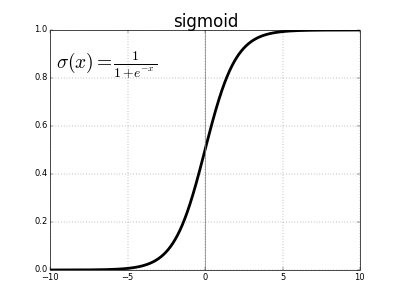
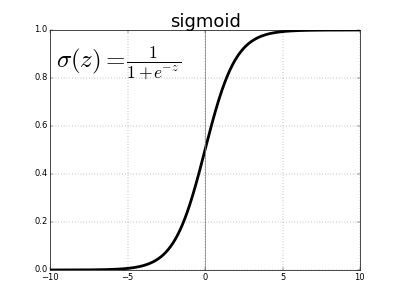
updates to neural networks chapter and images

Changed region(s): [[0.15, 0.15, 0.45, 0.27], [0.42, 0.03, 0.6, 0.12]]

diff --git a/_posts/2016-01-04-neural_networks.md b/_posts/2016-01-04-neural_networks.md
@@ -1,32 +1,77 @@
 ---
-layout: post
+layout: chapter
 title: "Neural networks"
 date: 2016-01-04
 ---
 
-{% include quotation.html index=0 %}
-
-Nearly a century before neural networks were first implemented, Ada Lovelace described an ambition to build a "calculus of the nervous system." Although speculative analogies between brains and machines are as old as the philosophy of computation itself, it wasn't until Charles Babbage proposed the _analytical engine_ that we conceived of "calculators" having humanlike cognitive capacities. Ada would not live to see her dream of building the engine come to fruition, as engineers of the time were unable to produce the complex circuitry her schematics required. Nevertheless, the idea was passed on to the next century when Alan Turing cited it as the inspiration of the Imitation Game, what soon came to be called the "Turing Test." His ruminations into the extreme limits of computation incited the first boom of artificial intelligence, setting the stage for the golden age of neural networks.
+Nearly a century before neural networks were first implemented, [Ada Lovelace](http://findingada.com/) described an ambition to build a "[calculus of the nervous system](http://www.thelancet.com/journals/lancet/article/PIIS0140-6736(15)00686-8/fulltext?rss=yes)." Although speculative analogies between brains and machines are as old as the philosophy of computation itself, it wasn't until [Charles Babbage](https://en.wikipedia.org/wiki/Charles_Babbage) proposed the [Analytical engine](https://en.wikipedia.org/wiki/Analytical_Engine) that we conceived of "calculators" having humanlike cognitive capacities. Ada would not live to see her dream of building the engine come to fruition, as engineers of the time were unable to produce the complex circuitry her schematics required. Nevertheless, the idea was passed on to the next century when [Alan Turing](https://en.wikipedia.org/wiki/Alan_Turing) cited it as the inspiration for the [Imitation Game](http://phil415.pbworks.com/f/TuringComputing.pdf), what soon came to be called the "[Turing Test](https://en.wikipedia.org/wiki/Turing_test)." His ruminations into the extreme limits of computation incited the first boom of artificial intelligence, setting the stage for the golden age of neural networks.
 
 ## The once and future king
 
-The recent resurgence of neural networks is a peculiar story. Intimately connected to the early days of AI, neural networks were first computed in the late 40s in the form of Turing's [B-type machines](https://en.wikipedia.org/wiki/Unorganized_machine), drawing upon earlier research into [neural plasticity](https://en.wikipedia.org/wiki/Hebbian_theory) by neuroscientists and cognitive psychologists studying the learning process in human beings. As the mechanics of brain development were being discovered, computer scientists experimented with idealized versions of action potential and neural backpropagation to simulate the process in machines.
+The recent resurgence of neural networks is a peculiar story. Intimately connected to the early days of AI, neural networks were first formalized in the late 1940s in the form of Turing's [B-type machines](https://en.wikipedia.org/wiki/Unorganized_machine), drawing upon earlier research into [neural plasticity](https://en.wikipedia.org/wiki/Hebbian_theory) by neuroscientists and cognitive psychologists studying the learning process in human beings. As the mechanics of brain development were being discovered, computer scientists experimented with idealized versions of action potential and neural backpropagation to simulate the process in machines. 
 
-**[Figure:: neuron body]**
+Today, most scientists caution against taking this analogy too seriously, as neural networks are strictly designed for solving machine learning problems, rather than accurately depicting the brain. Nevertheless, the metaphor of the core unit of neural networks as a simplified biological neuron has stuck over the decades. The progression from biological neurons to artificial ones can be summarized by the following figures.
 
-Neural networks took a big step forward when Frank Rosenblatt devised the Perceptron in the late 1950s, a type of linear classifier that we saw in the last chapter. Publicly funded by the U.S. Navy, the Mark 1 perceptron was designed to perform image recognition from an array of photocells connected, potentiometers, and electrical motors, and was effective at learning complex electrical circuits, leading the New York Times in 1958 to gush that a machine would soon ["walk, talk, see, write, reproduce itself and be conscious of its existence"](http://query.nytimes.com/gst/abstract.html?res=9D01E4D8173DE53BBC4053DFB1668383649EDE). [[link](http://www.rmki.kfki.hu/~banmi/elte/Bishop%20-%20Pattern%20Recognition%20and%20Machine%20Learning.pdf)]
+<style>
+#outer {
+	text-align: center;
+	margin-left:-300px;
+	margin-right:-300px;
+	display:inline-block;
+	padding:20px;
+}
+.insert {
+	display: inline-block;
+	margin-left:5px;
+	margin-right:5px;
+	border: 1px solid #ddd;
+	padding:5px;
+}
+.caption {	
+	line-height:150%;
+	color:#666;
+	background-color:#f4f4f4;
+	margin-top:8px;
+}
 
-The early hype would inspire scientists and science fiction writers for decades to come, but the excitement was far more tempered in the academic community. Marvin Minsky's and Seymour Papert's 1969 book, [_Perceptrons_](https://en.wikipedia.org/wiki/Perceptrons_(book)), demonstrated various -- [even trivial](http://users.ecs.soton.ac.uk/harnad/Hypermail/Explaining.Mind96/0140.html) -- limitations, inadvertently leading to a [decline of interest](https://en.wikipedia.org/wiki/AI_winter) within both academia and the general public, who had mistakenly assumed computers would simply keep up with the [breakneck pace of computational power](https://en.wikipedia.org/wiki/Moore%27s_law). Even Turing himself said machines would possess human-level intelligence by the year 2000 -- the year we had the Y2K scare. 
+</style>
+<center>
+<div id="outer">
+	<div class="insert"><img src="/images/neuron-anatomy.jpg" />
+		<div class="caption">
+			Anatomy of a biological neuron
+			<br/>Source: <a href="https://askabiologist.asu.edu/neuron-anatomy">ASU school of life sciences</a>
+		</div>
+	</div>
+	<div class="insert">
+		<img src="/images/neuron-simple.jpg" />
+		<div class="caption">
+			Simplified neuron body within a network
+			<br/>Source: <a href="http://www.generation5.org/content/2000/nn00.asp">Gurney, 1997. An Introduction to Neural Networks</a>
+		</div>
+	</div>
+	<div class="insert">
+		<img src="/images/neuron-artificial.png" />
+		<div class="caption">
+			Artificial neuron (<b>fix this</b>)
+			<br/>&nbsp;
+		</div>
+	</div>	
+</div>
+</center>
 
-Despite a number of quiet but significant improvements to neural networks in the 80s and 90s [[1]](_jurgen_)[[2]](_)[[3]](_Perceptrons_), they remained on the sidelines through the 2000s, with most commercial and industrial applications of machine learning favoring support vector machines and various other approaches. [Starting in 2009](http://www.cs.utoronto.ca/~gdahl/papers/dbnPhoneRec.pdf) and [especially ramping up from 2012](https://www.technologyreview.com/s/530561/the-revolutionary-technique-that-quietly-changed-machine-vision-forever/), neural networks have once again become the dominant strain of ML algorithms. Their resurgence was largely brought about by the emergence of convolutional and recurrent neural networks, which have surpassed (sometimes dramatically so) previous state-of-the-art methods for key problems in the audiovisual domain. But more interestingly, they have a number of new applications and properties not seen before, especially of a kind that has piqued the interest of artists and others from outside the AI field proper. This book will look more closely at convolutional neural networks in particular several chapters from now.
 
-## Scope
+Neural networks took a big step forward when [Frank Rosenblatt](https://en.wikipedia.org/wiki/Frank_Rosenblatt) devised the [Perceptron](https://en.wikipedia.org/wiki/Perceptron) in the late 1950s, a type of linear classifier that we saw in the [last chapter](/2016/01/03/machine-learning.html). Publicly funded by the U.S. Navy, the Mark 1 perceptron was designed to perform image recognition from an array of photocells, potentiometers, and electrical motors. It's effectiveness at completing complex electrical circuits lead the New York Times in 1958 to predict that a machine would soon ["walk, talk, see, write, reproduce itself and be conscious of its existence"](http://query.nytimes.com/gst/abstract.html?res=9D01E4D8173DE53BBC4053DFB1668383649EDE).
 
-Neural networks are the only category of supervised learning algorithm this book will cover in detail for now. There are others, including support vector machines, decision trees, bayesian methods, and still more, but we will restrict our attention to neural networks because:
+The early hype would inspire science fiction writers for decades to come, but the excitement was far more tempered in the academic community. Marvin Minsky's and Seymour Papert's 1969 book, [Perceptrons](https://en.wikipedia.org/wiki/Perceptrons_(book)), demonstrated various-—[even trivial](http://users.ecs.soton.ac.uk/harnad/Hypermail/Explaining.Mind96/0140.html)—limitations, inadvertently leading to a [decline of interest](https://en.wikipedia.org/wiki/AI_winter) within both academia and the general public, who had mistakenly assumed computers would simply keep up with the [breakneck pace](https://en.wikipedia.org/wiki/Moore%27s_law) of computational power. Even Turing himself said machines would possess human-level intelligence by the year 2000 -- the year we had the [Y2K scare](https://en.wikipedia.org/wiki/Year_2000_problem). 
 
- - They have a simple and intuitive formulation which can be expressed using elementary math operations.
- - Deep neural networks currently represent the current state-of-the-art in several important machine learning tasks, the ones most relevant to this course.
- - Most of the recent creative uses of machine learning have been made using neural networks.
+Despite a number of quiet but significant improvements to neural networks in the 80s and 90s [[1]](_jurgen_)[[2]](_)[[3]](_Perceptrons_), they remained on the sidelines through the 2000s, with most commercial and industrial applications of machine learning favoring [support vector machines](https://en.wikipedia.org/wiki/Support_vector_machine) and various other approaches. [Starting in 2009](http://www.cs.utoronto.ca/~gdahl/papers/dbnPhoneRec.pdf) and [especially ramping up from 2012](https://www.technologyreview.com/s/530561/the-revolutionary-technique-that-quietly-changed-machine-vision-forever/), neural networks have once again become the dominant strain of ML algorithms. Their resurgence was largely brought about by the emergence of [convolutional](/2016/02/02/convnets.html) and [recurrent neural networks](/2016/02/10/RNNs.html), which have surpassed (sometimes dramatically so) previous state-of-the-art methods for key problems in the audiovisual domain. But more interestingly, they have a number of new applications and properties not seen before, especially of a kind that has piqued the interest of artists and others from outside the AI field proper. This book will look more closely at convolutional neural networks in particular several chapters from now.
+
+Although many learning algorithms have been proposed over the years, we will mostly focus our attention on neural networks because:
+
+ - They have a surprisingly simple and intuitive formulation.
+ - Deep neural networks are tue current state-of-the-art in several important machine learning tasks, the ones most relevant to this book.
+ - Most of the recent creative uses of machine learning have been made with neural networks.
 
 
 ## From linear classifiers to neurons
@@ -35,7 +80,7 @@ Recall from the previous chapter that the input to a 2d linear classifier or reg
 
 $$
 \begin{eqnarray}
-f(x_1, x_2) = b + w_1 * x_1 + w_2 * x_2
+f(x_1, x_2) = b + w_1 x_1 + w_2 x_2
 \end{eqnarray}
 $$
 
@@ -43,7 +88,7 @@ More generally, in any number of dimensions, it can be expressed as
 
 $$
 \begin{eqnarray}
-f(X) = b + \sum_i w_i * x_i
+f(X) = b + \sum_i w_i x_i
 \end{eqnarray}
 $$
 
@@ -64,22 +109,20 @@ We can get from this formula to a full-fledged neural network by introducing two
 
 ## Activation function
 
-In both artificial and biological neural networks, a neuron does not just output the bare input it receives. Instead, there is one more step, called an _activation function_, analagous to the rate of [action potential](_) firing in the brain. The activation function takes the same weighted sum input from before, $$z = b + \sum_i w_i*x_i$$, and then transforms it once more before finally outputting it.
+In both artificial and biological neural networks, a neuron does not just output the bare input it receives. Instead, there is one more step, called an _activation function_, analagous to the rate of [action potential](https://en.wikipedia.org/wiki/Action_potential) firing in the brain. The activation function takes the same weighted sum input from before, $$z = b + \sum_i w_i x_i$$, and then transforms it once more before finally outputting it.
 
-Many activation functions have been proposed, but for now we will describe two in detail: [sigmoid](_) and [ReLU](_). 
+Many activation functions have been proposed, but for now we will describe two in detail: sigmoid and ReLU. 
 
-...tanh
-
-Historically, the sigmoid function is the oldest and most popular activation function. It is defined as:
+Historically, the [sigmoid](https://en.wikipedia.org/wiki/Sigmoid_function) function is the oldest and most popular activation function. It is defined as:
 
 $$
 \sigma(x) = \frac{1}{1 + e^{-x}}
 $$
 
-$$e$$ denotes the [exponential constant](__), roughly equal to 2.718. A neuron which uses a sigmoid as its activation function is called a _sigmoid neuron_. We first set the variable $$z$$ to our original weighted sum input, and then pass that through the sigmoid function.
+$$e$$ denotes the [exponential constant](https://en.wikipedia.org/wiki/E_(mathematical_constant)), roughly equal to 2.71828. A neuron which uses a sigmoid as its activation function is called a _sigmoid neuron_. We first set the variable $$z$$ to our original weighted sum input, and then pass that through the sigmoid function.
 
 $$
-z = b + \sum_i w_i * x_i \\
+z = b + \sum_i w_i x_i \\
 \sigma(z) = \frac{1}{1 + e^{-z}}
 $$
 
@@ -91,28 +134,28 @@ At first, this equation may seem complicated and arbitrary, but it actually has 
 
 We can see that $$\sigma(z)$$ acts as a sort of "squashing" function, condensing our previously unbounded output to the range 0 to 1. In the center, where $$z = 0$$, $$\sigma(0) = 1/(1+e^{0}) = 1/2$$. For large negative values of $$z$$, the $$e^{-z}$$ term in the denominator grows exponentially, and $$\sigma(z)$$ approaches 0. Conversely, large positive values of $$z$$ shrink $$e^{-z}$$ to 0, so $$\sigma(z)$$ approaches 1.
 
-The sigmoid function is continuously differentiable, and its derivative, conveniently, is $$\sigma^\prime(z) = \sigma(z) * (1-\sigma(z))$$. This is important because we have to use calculus to train neural networks, but don't worry about that for now.
+The sigmoid function is continuously differentiable, and its derivative, conveniently, is $$\sigma^\prime(z) = \sigma(z) (1-\sigma(z))$$. This is important because we have to use calculus to train neural networks, but don't worry about that for now.
 
-Sigmoid neurons were the basis of most neural networks for decades, but in recent years, they have fallen out of favor. The reason for this will be explained in more detail later, but in short, they make neural networks that have many layers difficult to train due to the [vanishing gradient problem](https://en.wikipedia.org/wiki/Vanishing_gradient_problem). Instead, most have shifted to using another type of activation function, the _rectified linear unit_, ReLU for short, introduced by Geoff Hinton et al. Despite its obtuse name, it is very simple.
-
-$$
-R(z) = max(0, z)
-$$
-
-In other words, ReLUs let all positive values pass through unchanged, but just sets any negative value to 0. 
+Sigmoid neurons were the basis of most neural networks for decades, but in recent years, they have fallen out of favor. The reason for this will be explained in more detail later, but in short, they make neural networks that have many layers difficult to train due to the [vanishing gradient problem](https://en.wikipedia.org/wiki/Vanishing_gradient_problem). Instead, most have shifted to using another type of activation function, the _rectified linear unit_, or ReLU for short. Despite its obtuse name, it simply given by $$R(z) = max(0, z)$$.
 
 {:.center}
 ![ReLU](/images/relu.png 'ReLU')
 
-Although newer activation functions are gaining traction in recent years, most deep neural networks these days use ReLU. Regardless of which activation function is used, we can represent a neuron in the form of a _compuational graph_ which shows all of the operations in order, giving us a nice intuitive visual representation of a neuron's behavior.
+In other words, ReLUs let all positive values pass through unchanged, but just sets any negative value to 0. Although newer activation functions are gaining traction, most deep neural networks these days use ReLU or one of its [closely related variants](https://en.wikipedia.org/wiki/Rectifier_(neural_networks)). 
 
-**[ FIGURE: computational graph ]**
+Regardless of which activation function is used, we can visualize a single neuron with this standard diagram, giving us a nice intuitive visual representation of a neuron's behavior.
 
-We simplify this diagram as in below, where the presence of the weights, bias, and activation function are encapsulated. This is the standard visualization of a neuron.
+{:.center}
+![ReLU](/images/neuron.png 'Neuron')
 
-**[ FIGURE: standard visualization of neuron, 3 inputs ]**
+The above diagram shows a neuron with three inputs, and outputs a single value $$y$$. As before, we first compute the weighted sum of its inputs, then pass it through an activation function $$\sigma$$.
 
-You may be wondering what the purpose of an activation function is, and why it is preferred to simply outputting the weighted sum, as we do with the linear classifier from the last chapter. The reason is that a weighted sum is _linear_ with respect to its inputs, i.e. it has a flat dependence on each of the inputs. In contrast, non-linear activation functions greatly expand our capacity to model curved or otherwise non-trivial functions. This will become clearer in the next section.
+$$
+z = b + w_1 x_1 + w_2 x_2 + w_3 x_3 \\
+y = \sigma(z)
+$$
+
+You may be wondering what the purpose of an activation function is, and why it is preferred to simply outputting the weighted sum, as we do with the linear classifier from the last chapter. The reason is that a weighted sum is [_linear_](https://en.wikipedia.org/wiki/Linearity) with respect to its inputs, i.e. it has a flat dependence on each of the inputs. In contrast, non-linear activation functions greatly expand our capacity to model curved or otherwise non-trivial functions. This will become clearer in the next section.
 
 # Layers
 
@@ -131,9 +174,10 @@ Note that it may look like the three input neurons send out multiple values beca
 
 The process of a neural network sending an initial input forward through its layers to the output is called _forward propagation_ or a _forward pass_ and any neural network which works this way is called a _feedforward neural network_. As we shall soon see, there are some neural networks which allow data to flow in circles, but let's not get ahead of ourselves yet... 
 
-Let's demonstrate a forward pass with this interactive demo. Click the 'Next' button in the top-left corner to proceed. // You can see a forward pass in action in the following demo. Click 'manual' to pause the demo and go through the steps manually.
+Let's demonstrate a forward pass with this interactive demo. Click the 'Next' button in the top-left corner to proceed. You can see a forward pass in action in the following demo. 
 
-**[ DEMO: demo_forwardpass.html ]**
+{:.center}
+![neural network](/images/temp_demo_forward_pass.png 'forward_pass')
 
 
 # More layers, more expressiveness
@@ -147,8 +191,9 @@ Recall also that activation functions expand our capacity to capture non-linear 
 
 In the demo above, we map a set of inputs to a single output in a forward pass. We can interpret the forward pass as making a prediction about the output, given the input. This is called _regression_ and is one of the primary uses of neural networks. Let's try an example.
 
---
+-----
 
+[[ THIS IS A DRAFT]]
 Random set of dat, 3 cols. 1 regression value
 
 Interactive 3 -> 1
@@ -166,28 +211,29 @@ Now a magic trick, I'll give it a new set of weights. Now let's run the examples
 
 the process of obtaining the correct weights is called training. for now, ignore it, it's a black box. we'll talk about it in the next section.
 
---
+-----
 
 
 What about classification? In the previous chapter, we introduced binary classification by simply thresholding the output at 0; If our output was positive, we'd classify positively, and if it was negative, we'd classify negatively. For neural networks, it would be reasonable to adapt this approach for the final neuron, and classify positively if the output neuron scores above some threshold. For example, we can threshold at 0.5 for sigmoid neurons which are always positive.
 
-But what if we have multiple classes? One option might be to create intervals in the output neuron which correspond to each class, but this would be problematic for reasons that we will learn about when we look at [how neural networks are trained](). Instead, neural networks are adapted for classification by having one output neuron for each class. We do a forward pass and our prediction is the class corresponding to the neuron which received the highest value.
-
-**[ FIGURE: basic CIFAR classification? maybe just 3 classes for simplicity ]**
+But what if we have multiple classes? One option might be to create intervals in the output neuron which correspond to each class, but this would be problematic for reasons that we will learn about when we look at [how neural networks are trained](). Instead, neural networks are adapted for classification by having one output neuron for each class. We do a forward pass and our prediction is the class corresponding to the neuron which received the highest value. Let's have a look at an example.
 
 # Classification of handwritten digits
 
 Let's now tackle a real world example of classification using neural networks, the task of recognizing and labeling images of handwritten digits. We are going to use the [MNIST dataset](http://yann.lecun.com/exdb/mnist/), which contains 60,000 labeled images of handwritten digits sized 28x28 pixels, whose classification accuracy serves as a common benchmark in machine learning research. Below is a random sample of images found in the dataset.
 
-**[FIGURE:: MNIST ground truth]**
+{:.center}
+![MNIST ground truth](/images/temp_fig_mnist_groundtruth.png 'MNIST ground truth')
 
 The way we setup a neural network to classify these images is by having the raw pixel values be our first layer inputs, and having 10 output classes, one for each of our digit classes from 0 to 9. Since they are grayscale images, each pixel has a brightness value between 0 (black) and 255 (white). All the MNIST images are 28x28, so they contain 784 pixels. We can unroll these into a single array of inputs, like in the following figure.
 
-**[ FIGURE: fig_mnist.html ]**
+{:.center}
+![MNIST](/images/temp_fig_mnist.png 'MNIST')
 
 The important thing to realize is that although this network seems a lot more imposing than our simple 3x2x1 network in the previous chapter, it works exactly as before, just with many more neurons. Each neuron in the first hidden layer receives ....
 
-**[ DEMO: mnist_forwardpass.html ]**
+{:.center}
+![MNIST demo](/images/temp_demo_mnist_forwardpass.png 'MNIST demo')
 
 
 # Summary
